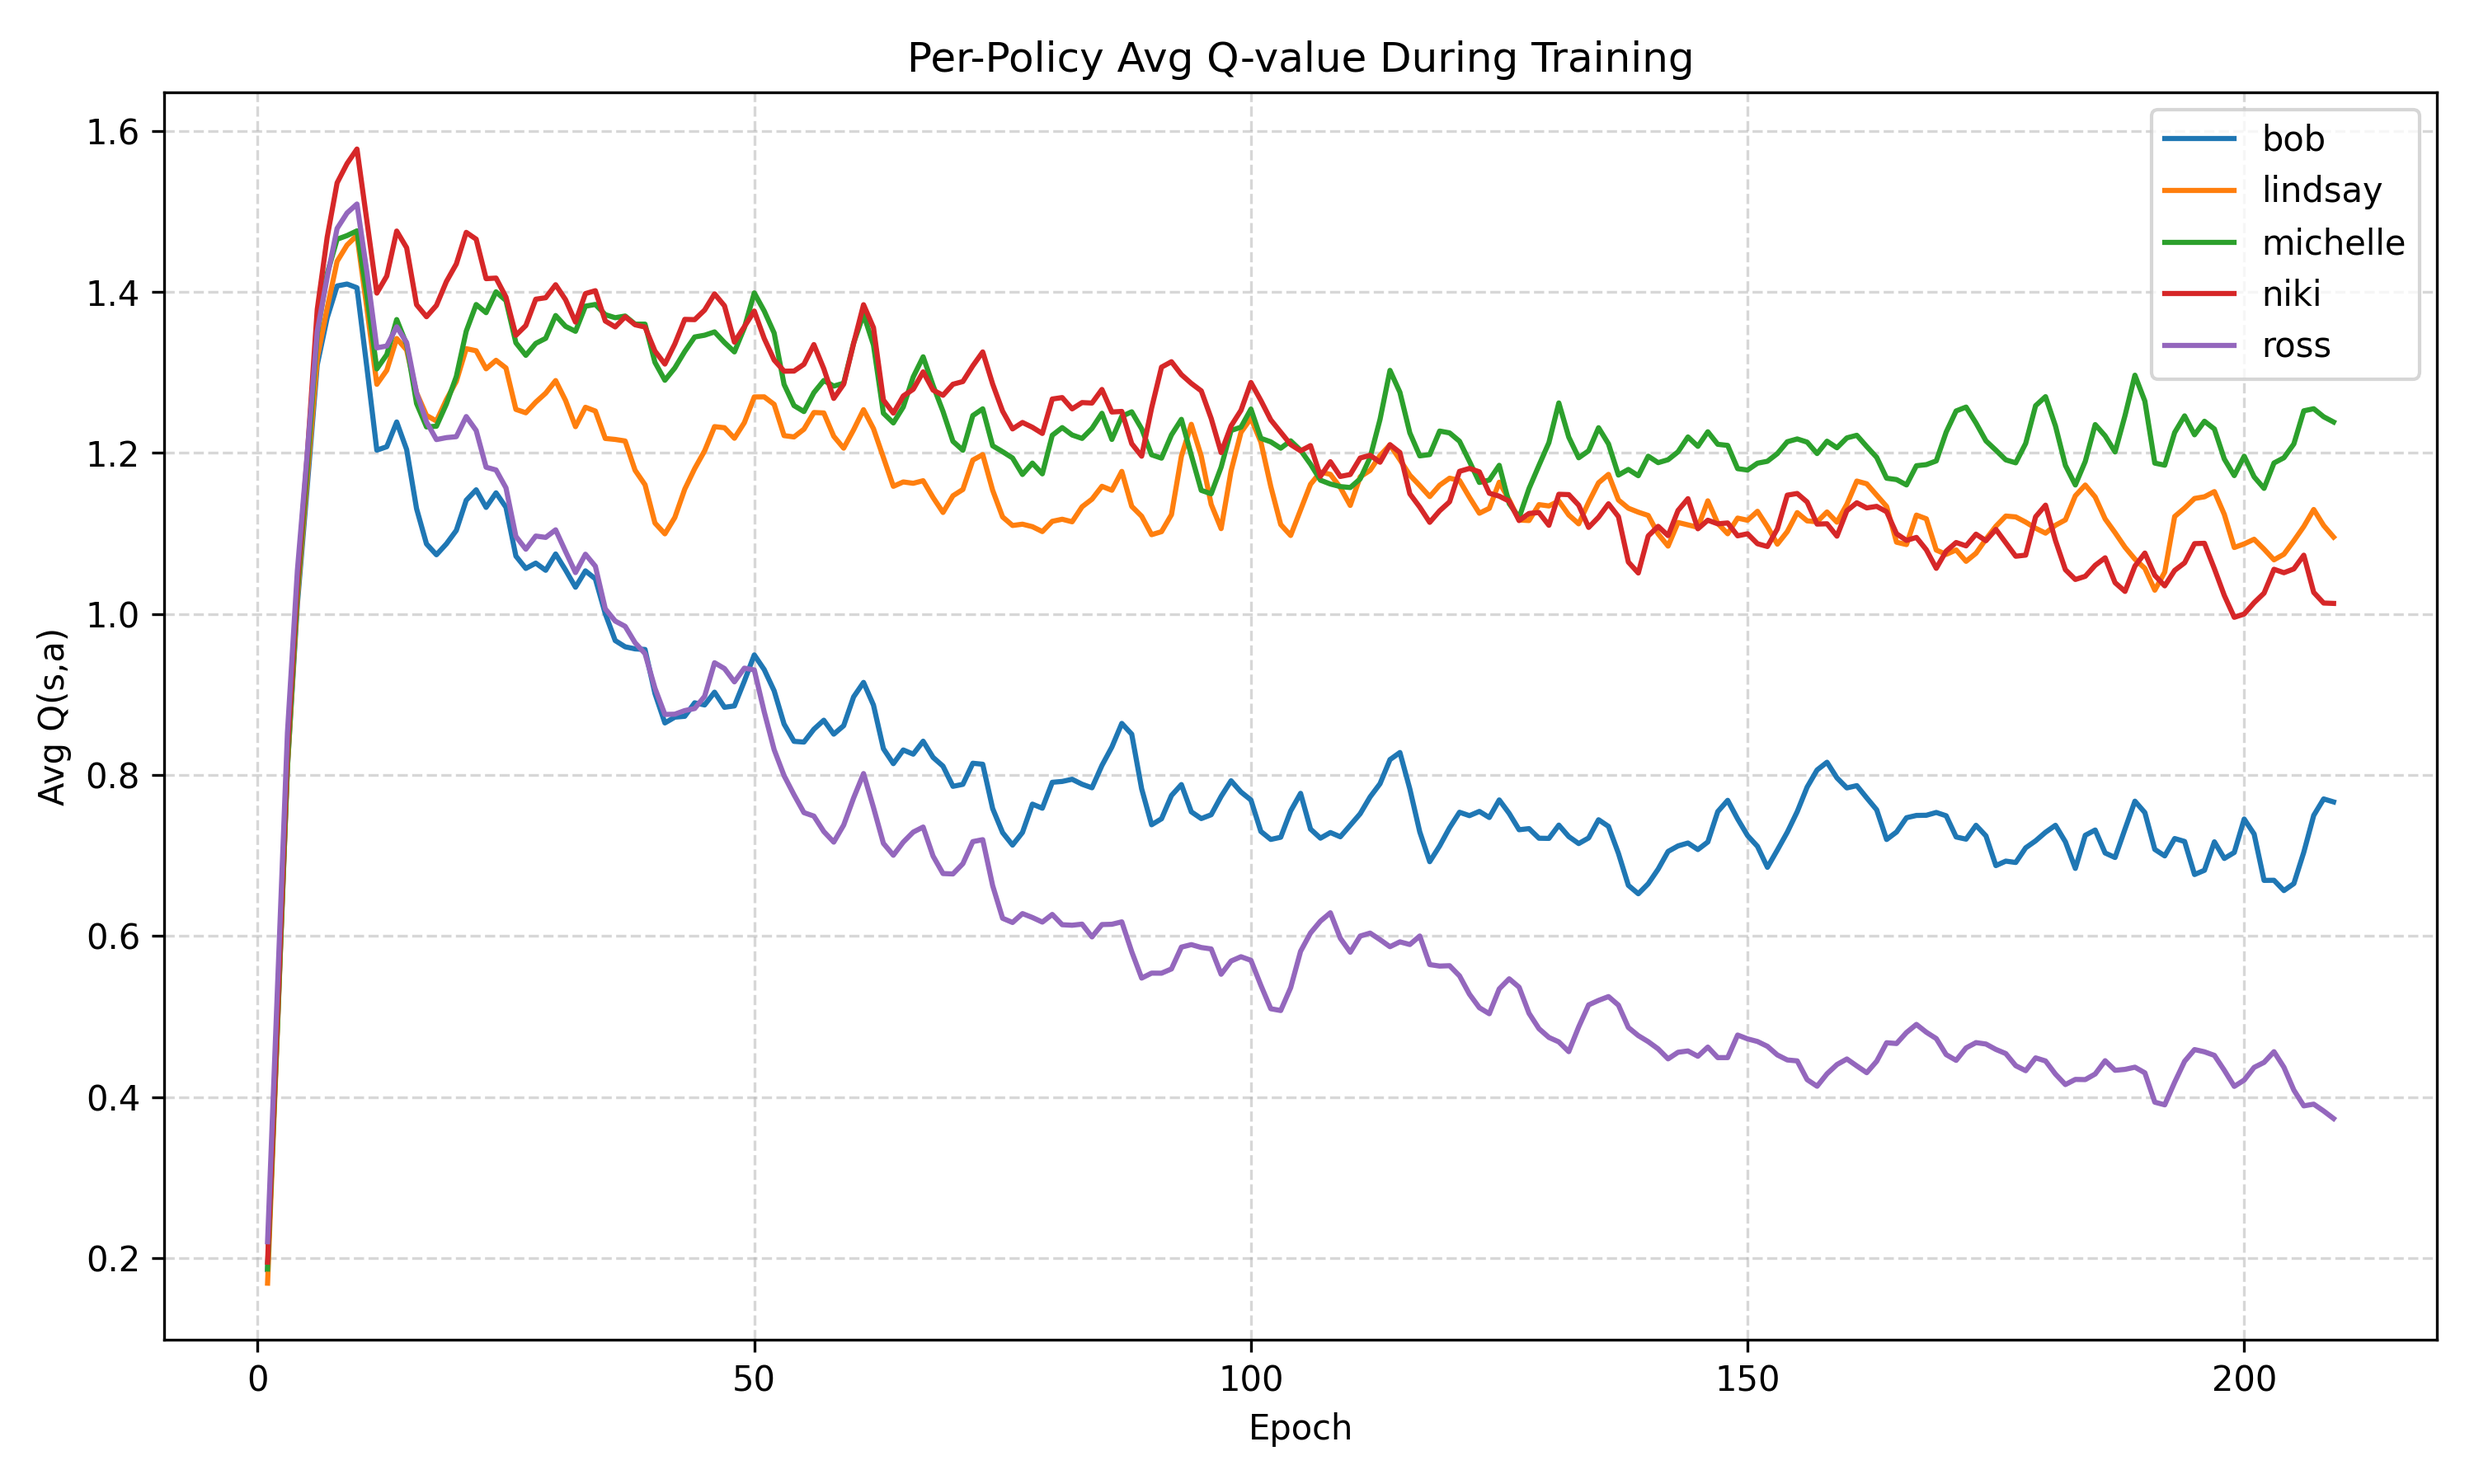
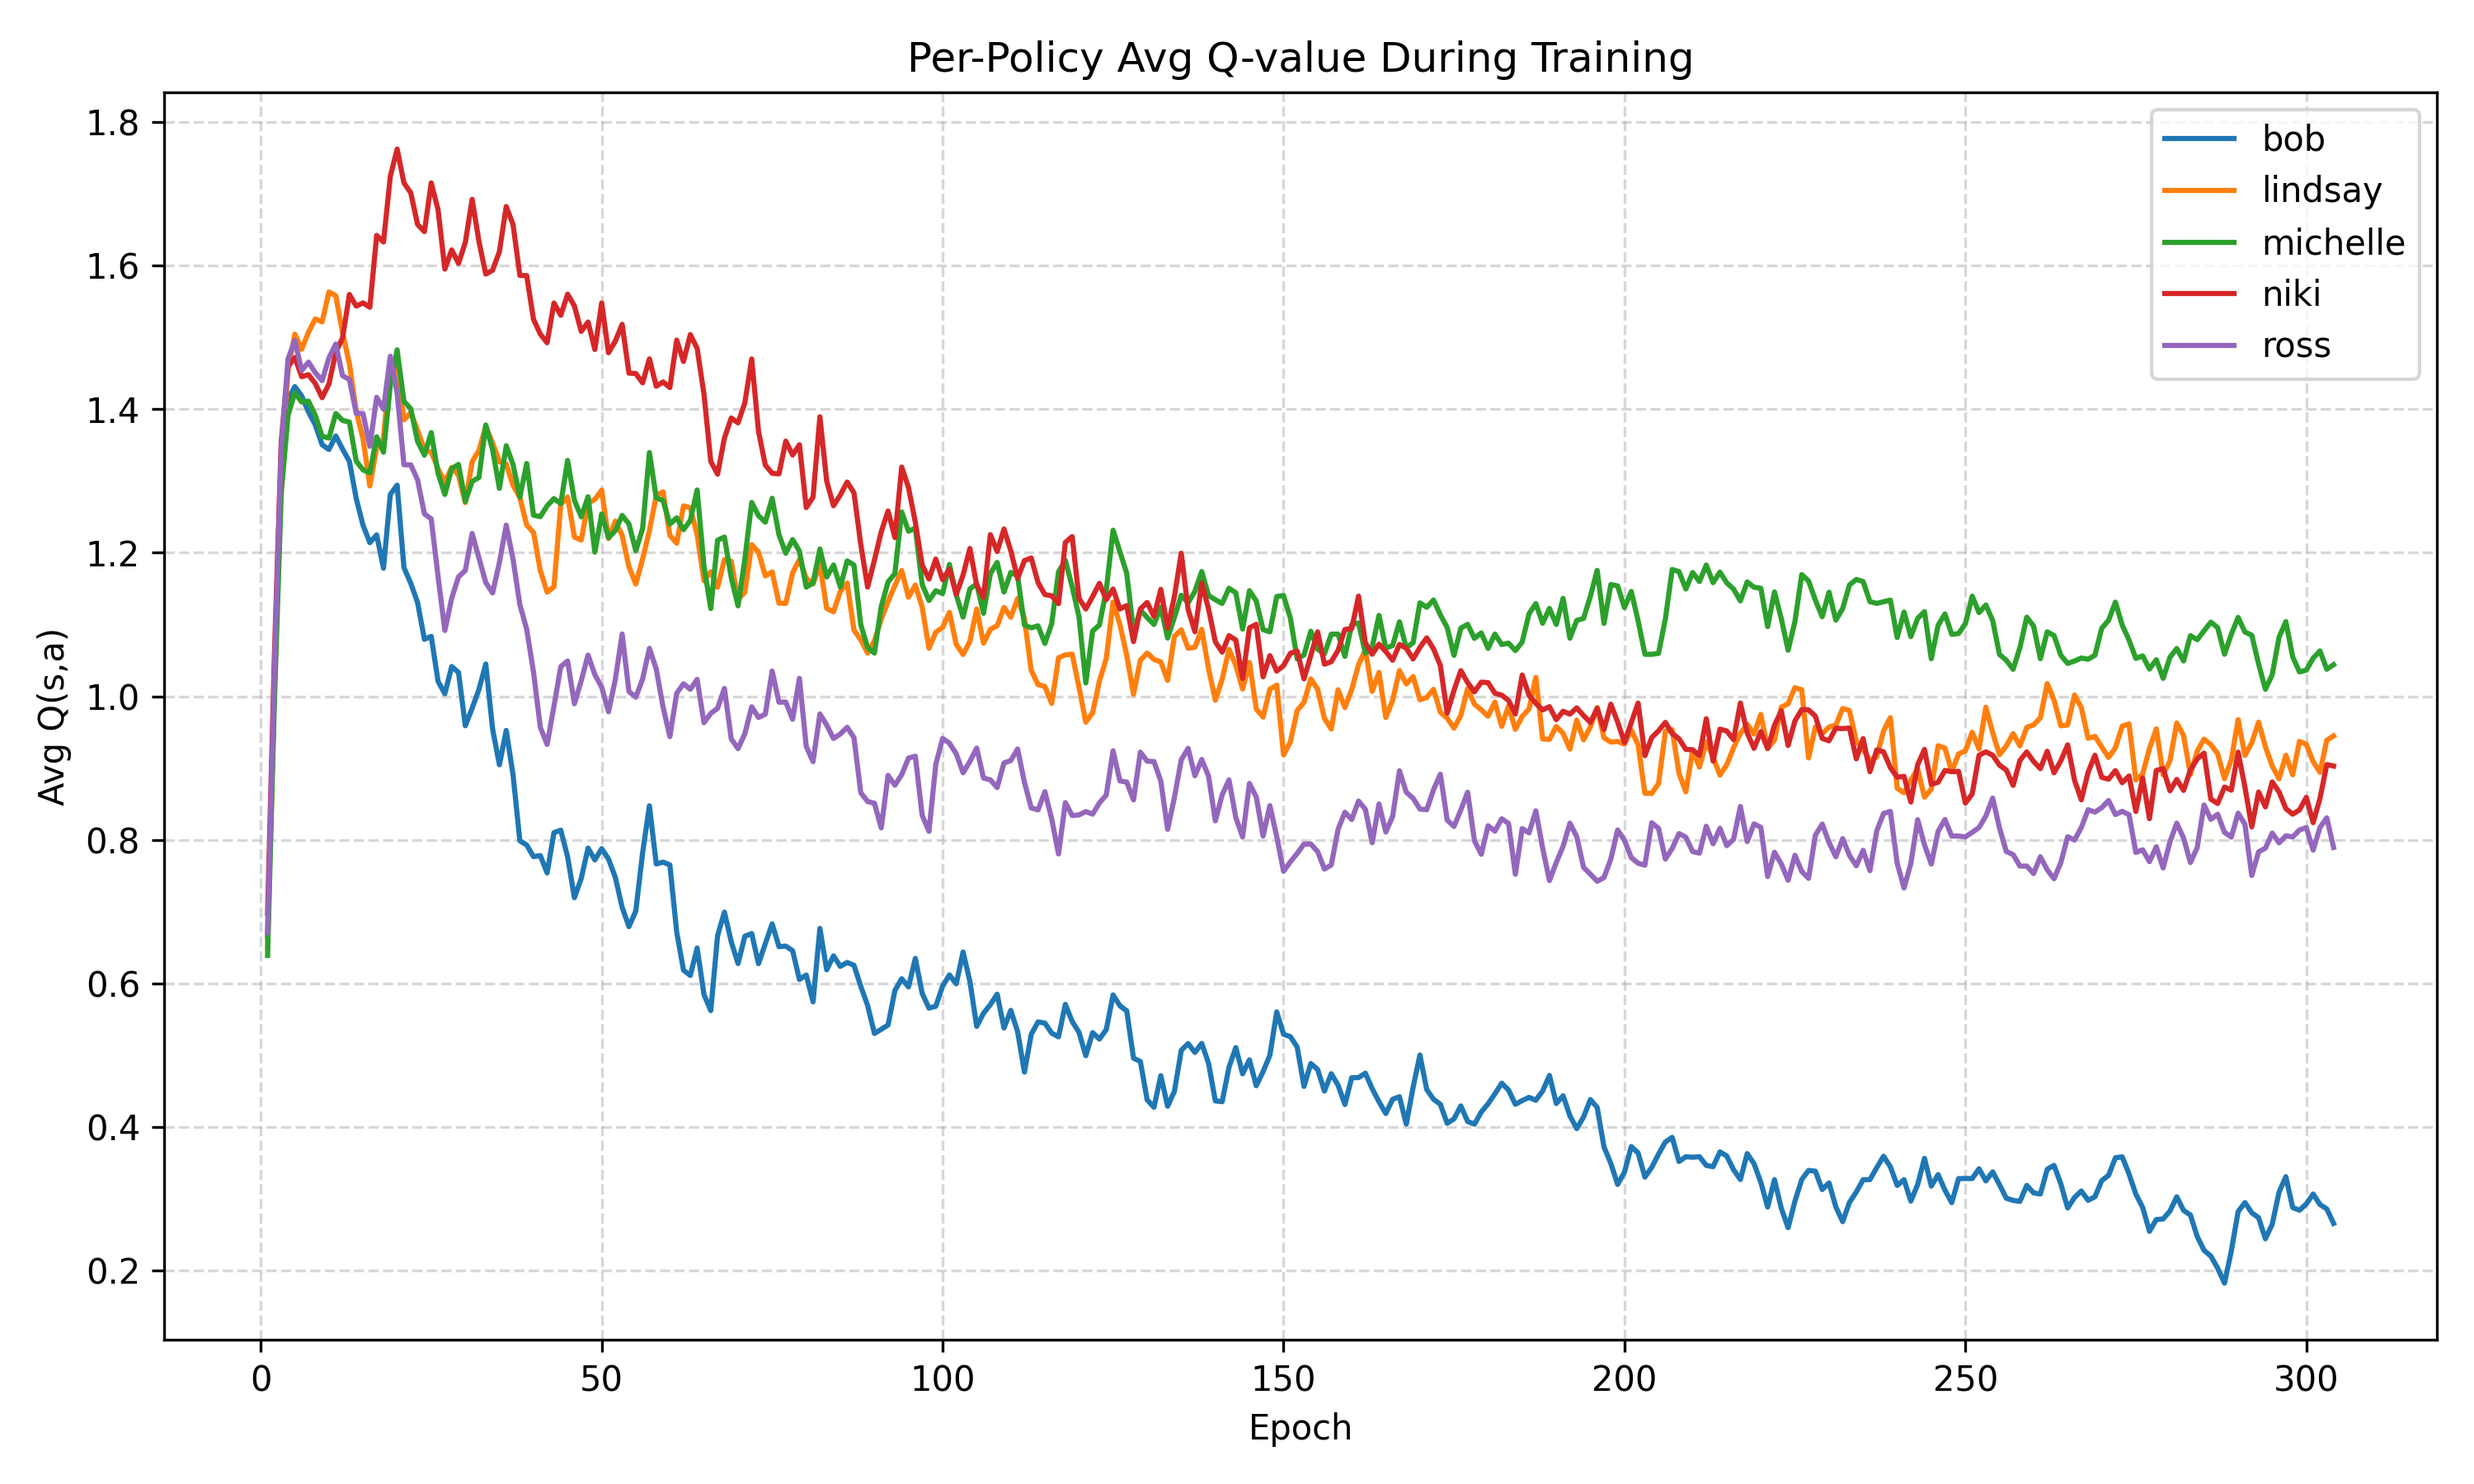
works fine maybe the same as the prev setting, dec batch size to 16 here

diff --git a/config/settings.py b/config/settings.py
@@ -94,7 +94,7 @@ LLM_MODEL = os.environ.get("LLM_MODEL", OLLAMA_MODEL if LLM_PROVIDER == "ollama"
 # IQL TRAINING HYPERPARAMETERS
 # ═══════════════════════════════════════════════════════════════════════════════
 IQL_EPOCHS             = 800
-IQL_BATCH_SIZE         = 32
+IQL_BATCH_SIZE         = 16
 IQL_LR_Q               = 1e-4
 IQL_LR_V               = 5e-5
 IQL_WEIGHT_DECAY       = 1e-4
